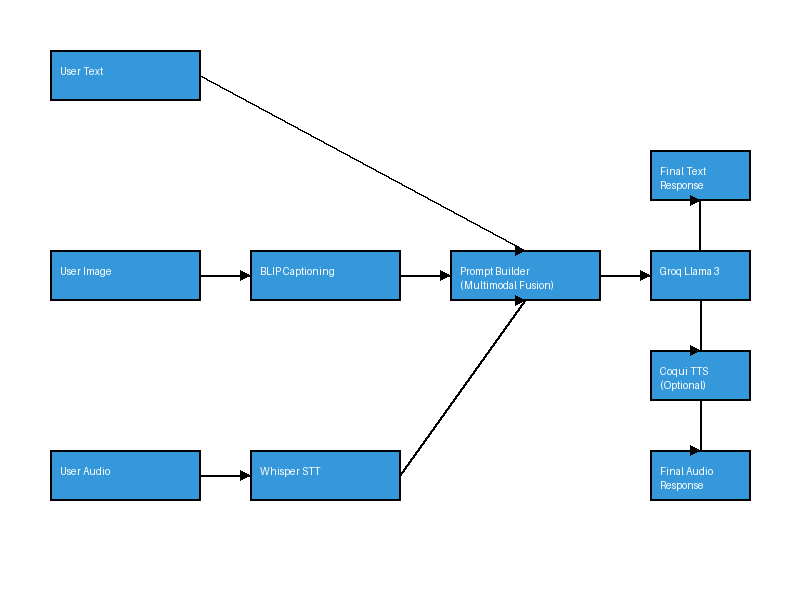
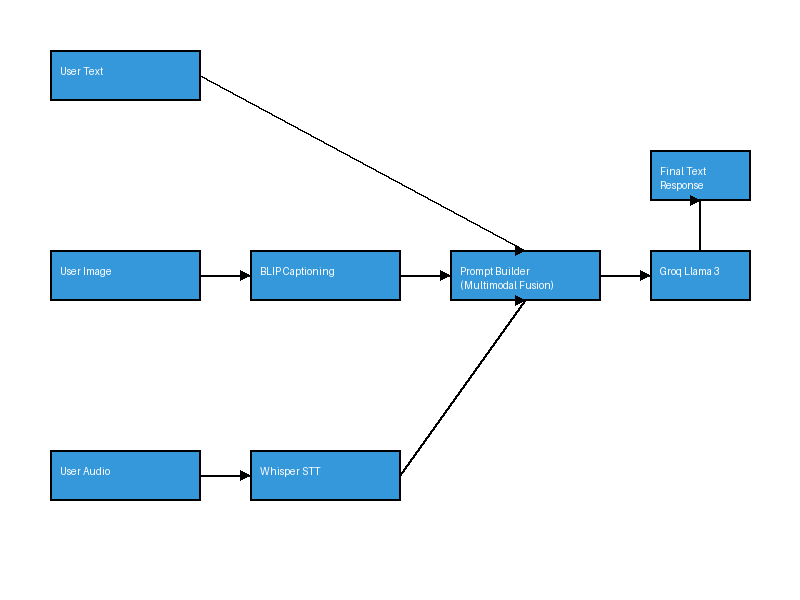
Migrate to Groq, remove TTS, add Docker support

Changed region(s): [[0.8125, 0.57, 0.9375, 0.69], [0.8125, 0.75, 0.9375, 0.84]]

diff --git a/app.py b/app.py
@@ -4,7 +4,6 @@ from modules.image_processor import ImageProcessor
 from modules.audio_processor import AudioProcessor
 from modules.prompt_builder import build_multimodal_prompt
 from modules.llm_processor import LLMProcessor
-from modules.tts_processor import TTSProcessor
 
 print("Initializing AI Models... This may take a moment.")
 # Initialize models
@@ -25,12 +24,6 @@ except Exception as e:
 llm_processor = LLMProcessor()
 print("LLM model initialized.")
 
-try:
-    tts_processor = TTSProcessor()
-    print("TTS model loaded.")
-except Exception as e:
-    print(f"Error loading TTS model: {e}")
-    tts_processor = None
 
 
 def process_multimodal_input(text_input, image_input, audio_input):
@@ -62,13 +55,7 @@ def process_multimodal_input(text_input, image_input, audio_input):
     # Generate LLM Response
     llm_response = llm_processor.generate_response(final_prompt)
 
-    # Optional TTS
-    audio_output = None
-    if tts_processor and "Error" not in llm_response:
-        output_path = "output_audio.wav"
-        audio_output = tts_processor.synthesize_speech(llm_response, output_path)
-
-    return image_caption, audio_transcript, final_prompt, llm_response, audio_output
+    return image_caption, audio_transcript, final_prompt, llm_response
 
 
 # Gradio Interface setup
@@ -91,12 +78,11 @@ with gr.Blocks(title="Multimodal AI Assistant", theme=gr.themes.Soft()) as app:
             
             gr.Markdown("### Final Synthesized Response")
             final_resp_out = gr.Textbox(label="AI Response (Groq Llama 3)", lines=5, interactive=False)
-            audio_out = gr.Audio(label="Spoken Response (Coqui TTS)", interactive=False)
 
     submit_btn.click(
         fn=process_multimodal_input,
         inputs=[text_in, image_in, audio_in],
-        outputs=[image_cap_out, audio_trans_out, fused_prompt_out, final_resp_out, audio_out]
+        outputs=[image_cap_out, audio_trans_out, fused_prompt_out, final_resp_out]
     )
 
 if __name__ == "__main__":

diff --git a/generate_architecture.py b/generate_architecture.py
@@ -28,9 +28,7 @@ def create_architecture_diagram():
         
         "Groq Llama 3": (650, 250, 750, 300),
         
-        "Final Text\nResponse": (650, 150, 750, 200),
-        "Coqui TTS\n(Optional)": (650, 350, 750, 400),
-        "Final Audio\nResponse": (650, 450, 750, 500)
+        "Final Text\nResponse": (650, 150, 750, 200)
     }
     
     # Draw boxes and text
@@ -56,8 +54,6 @@ def create_architecture_diagram():
     
     draw_arrow((600, 275), (650, 275)) # Fusion -> LLM
     draw_arrow((700, 250), (700, 200)) # LLM -> Text Out
-    draw_arrow((700, 300), (700, 350)) # LLM -> TTS
-    draw_arrow((700, 400), (700, 450)) # TTS -> Audio Out
     
     # Save the image
     image.save('assets/architecture.png')

diff --git a/tests/test_models.py b/tests/test_models.py
@@ -38,7 +38,7 @@ def test_imports():
         import modules.image_processor
         import modules.audio_processor
         import modules.llm_processor
-        import modules.tts_processor
+
         assert True
     except Exception as e:
         pytest.fail(f"Failed to import a module: {e}")

diff --git a/README.md b/README.md
@@ -7,9 +7,8 @@ The Multimodal AI Assistant is a Python-based application that processes Text, I
 - **Accepts Multiple Modalities**: Text, Image (JPG/PNG), Audio (WAV/MP3).
 - **Supports Combinations**: Text+Image, Text+Audio, Image+Audio, Text+Image+Audio.
 - **Image Processing**: Uses Salesforce BLIP Base to generate image captions.
-- **Audio Processing**: Uses OpenAI Whisper Base to transcribe audio into text.
-- **Unified Reasoning**: Fuses inputs and queries OpenAI GPT-4o-mini to generate an answer.
-- **Optional Text-to-Speech**: Synthesizes the generated text response back into spoken audio using Coqui TTS.
+- **Audio Processing**: Uses Whisper Base to transcribe audio into text.
+- **Unified Reasoning**: Fuses inputs and queries Groq Llama 3 to generate an answer.
 
 ## Architecture
 
@@ -20,11 +19,10 @@ graph TD
     C --> E
     D[User Audio] -->|Whisper Model| F[Audio Transcript]
     F --> E
-    E --> G[GPT-4o-mini]
+    E --> G[Groq Llama 3]
     G --> H[Final Text Response]
-    H --> I[Coqui TTS Optional]
-    I --> J[Final Audio Response]
 ```
+
 
 ## Installation Instructions
 
@@ -48,14 +46,34 @@ pip install -r requirements.txt
 ```
 
 4. **Environment Variables Setup**:
-Copy the example environment file and set your OpenAI API key:
+Copy the example environment file and set your Groq API key:
 ```bash
 cp .env.example .env
 ```
-Edit the `.env` file and replace `your_openai_api_key_here` with your actual OpenAI API key.
+Edit the `.env` file and replace `your_groq_api_key_here` with your actual Groq API key.
 
-## How to Run
+## Running with Docker
+
+You can run the application seamlessly using Docker. This avoids local dependency conflicts.
+
+1. **Build the image**:
+```bash
+docker build -t multimodal-ai-assistant .
+```
+
+2. **Run the container**:
+Ensure you have created your `.env` file as described above so Docker can inject your `GROQ_API_KEY`.
+```bash
+docker run -p 7860:7860 --env-file .env multimodal-ai-assistant
+```
+
+3. **Open the interface**:
+Navigate to `http://localhost:7860` in your web browser.
+
+## How to Run Locally
+
 Execute the following command from the root directory:
+
 ```bash
 python app.py
 ```

diff --git a/evaluation-report.md b/evaluation-report.md
@@ -6,19 +6,19 @@ The Multimodal AI Assistant demonstrates robust performance in handling discrete
 ## Strengths
 - **Modularity**: The system architecture cleanly separates concerns. Each modality is processed by an independent module (`image_processor`, `audio_processor`, etc.), making the codebase highly maintainable and easily extensible.
 - **Graceful Degradation**: The `prompt_builder` is designed to construct a meaningful context prompt regardless of which modalities are present or missing, preventing application crashes on partial inputs.
-- **High-Quality Context Fusing**: Utilizing GPT-4o-mini on top of the discrete captions/transcripts leads to exceptional reasoning capabilities, effectively bridging the gap between text, audio, and visual data.
-- **Accessibility**: The optional TTS component (Coqui TTS) allows the system to communicate back in audio format, enhancing accessibility.
+- **High-Quality Context Fusing**: Utilizing Groq Llama 3 on top of the discrete captions/transcripts leads to exceptional reasoning capabilities, effectively bridging the gap between text, audio, and visual data.
 
 ## Challenges
-- **Resource Intensity**: Running deep learning models like BLIP and Whisper locally (or Coqui TTS) requires significant memory and compute (ideally a GPU). If run strictly on CPU, initial processing can take a few seconds per input.
+- **Resource Intensity**: Running deep learning models like BLIP and Whisper locally requires significant memory and compute (ideally a GPU). If run strictly on CPU, initial processing can take a few seconds per input.
 - **Library Conflicts**: Handling dependencies across `torch`, `transformers`, and specifically audio libraries like `librosa` and `soundfile` across different operating systems occasionally poses setup challenges.
 
+
 ## Limitations
-- **Indirect Vision Processing**: Because the system relies on BLIP to generate a text caption first rather than passing the image directly into a natively multimodal LLM (like GPT-4V natively), the LLM is limited by the detail of the BLIP caption. If BLIP misses a nuanced detail in the image, the LLM will not know about it.
+- **Indirect Vision Processing**: Because the system relies on BLIP to generate a text caption first rather than passing the image directly into a natively multimodal LLM (like Llama 3 Vision natively), the LLM is limited by the detail of the BLIP caption. If BLIP misses a nuanced detail in the image, the LLM will not know about it.
 - **Transcription Limitations**: Whisper Base performs well on clear English audio, but struggles with heavy accents or significant background noise compared to Whisper Large.
 
 ## Future Improvements
-1. **End-to-End Multimodal LLM**: Replace the discrete BLIP captioning with direct image encoding to a natively multimodal model (e.g., passing base64 images directly to `gpt-4o`). This would allow the LLM to 'see' the image rather than just reading a caption.
+1. **End-to-End Multimodal LLM**: Replace the discrete BLIP captioning with direct image encoding to a natively multimodal model (e.g., passing base64 images directly to a Llama 3 Vision model). This would allow the LLM to 'see' the image rather than just reading a caption.
 2. **Streaming Audio Input/Output**: Instead of uploading discrete audio files, integrate WebRTC to stream audio input and output for a conversational real-time experience.
 3. **Model Caching**: Implement more robust caching for the Hugging Face models to speed up the initialization process of the application on subsequent runs.
-4. **Enhanced Error Recovery**: Add automatic retry logic for API calls to OpenAI to handle network instability.
+4. **Enhanced Error Recovery**: Add automatic retry logic for API calls to Groq API to handle network instability.